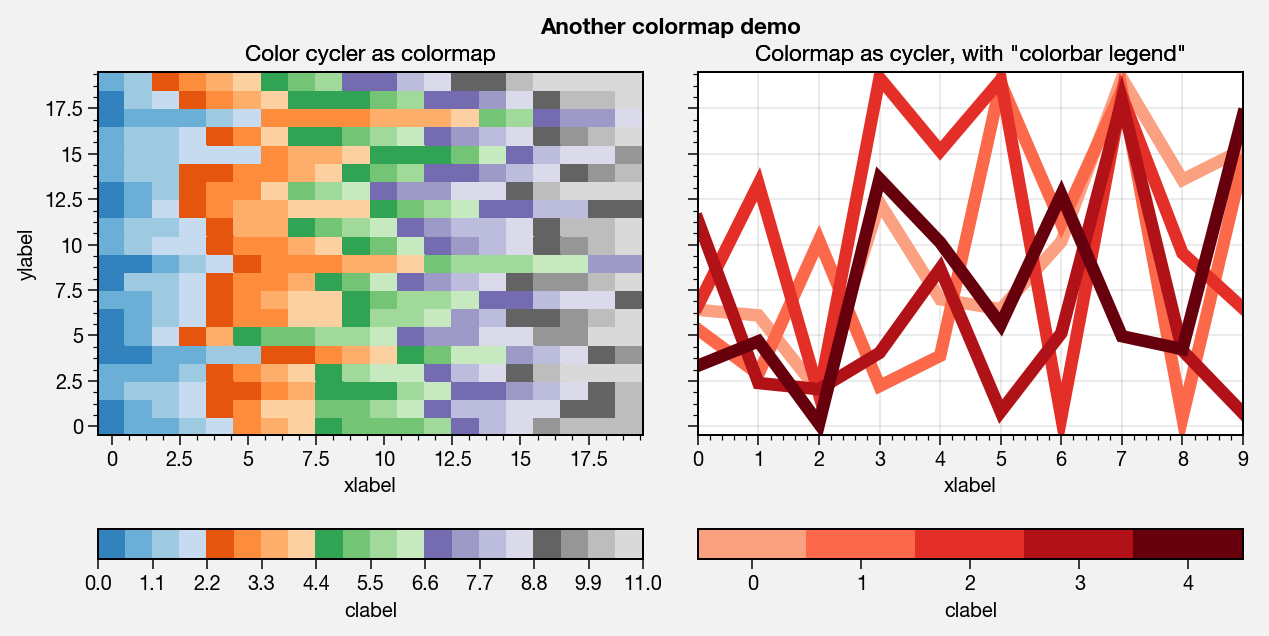
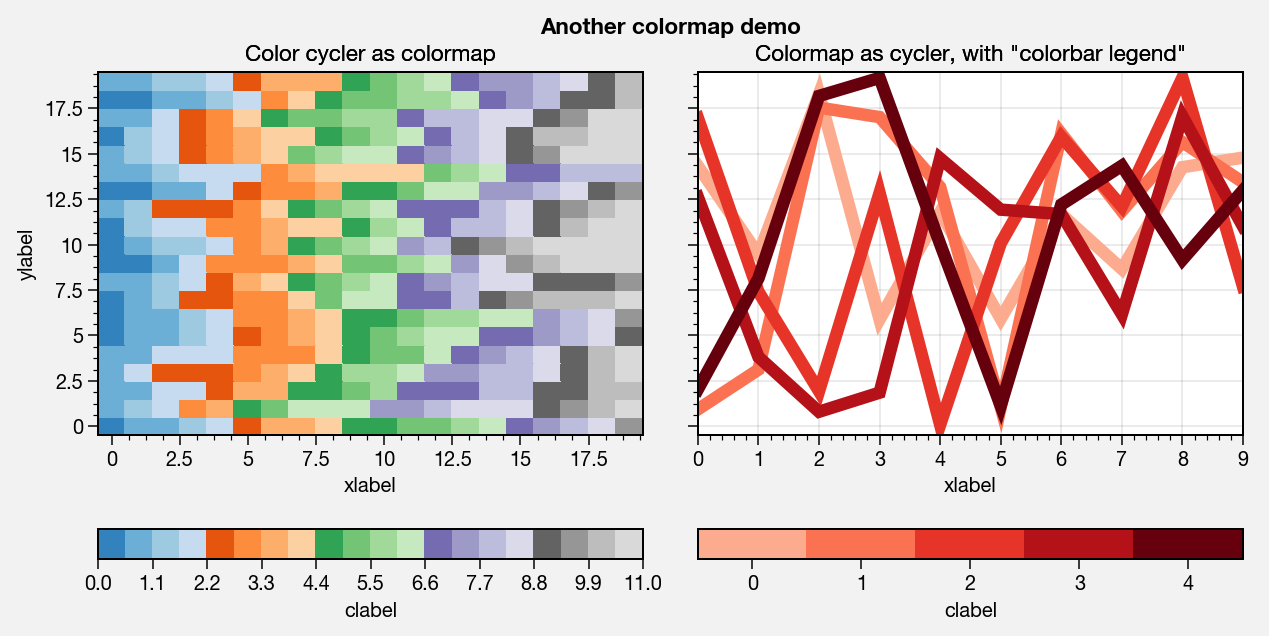
Color cycle fixes

diff --git a/proplot/colortools.py b/proplot/colortools.py
@@ -1364,28 +1364,27 @@ def Colormap(*args, name=None, cyclic=None, N=None,
     if len(imaps)>1:
         cmap = _merge_cmaps(*imaps, name=name, ratios=ratios, N=N_)
 
-    # Transform colormap
-    if not np.iterable(reverse) and reverse:
-        cmap = cmap.reversed()
+    # Cut out either edge
     left = None if np.iterable(left) else left
     right = None if np.iterable(right) else right
-    # Cut out either edge
     if not cut: # non-zero and not None
-        cmap = _clip_cmap(cmap, left, right, N=N)
+        cmap = _clip_cmap(cmap, left, right, name=name, N=N)
     # Cut out middle colors of a diverging map
     else:
         cright, cleft = 0.5 - cut/2, 0.5 + cut/2
         lcmap = _clip_cmap(cmap, left, cright)
         rcmap = _clip_cmap(cmap, cleft, right)
         cmap = _merge_cmaps(lcmap, rcmap, name=name, N=N_)
-    # Cyclically shift
+    # Cyclic colormap settings
     if shift: # i.e. is non-zero
-        cmap = _shift_cmap(cmap, shift)
-    # Add or overwrite property
+        cmap = _shift_cmap(cmap, shift, name=name)
     if cyclic is not None:
         cmap._cyclic = cyclic
     elif not hasattr(cmap, '_cyclic'):
         cmap._cyclic = False
+    # Optionally reverse
+    if not np.iterable(reverse) and reverse:
+        cmap = cmap.reversed()
     # Initialize (the _resample methods generate new colormaps,
     # so current one is uninitializied)
     if not cmap._isinit:
@@ -1427,9 +1426,7 @@ def Colormap(*args, name=None, cyclic=None, N=None,
         print(f'Saved colormap to "{basename}".')
     return cmap
 
-def Cycle(*args, N=None, name=None,
-        shift=None, left=None, right=None,
-        cmap_kw={}, **kwargs):
+def Cycle(*args, N=None, name=None, shift=None, **kwargs):
     """
     Convenience function that builds lists of colors from colormaps or returns
     lists of colors from existing registered cycles.
@@ -1457,14 +1454,10 @@ def Cycle(*args, N=None, name=None,
     shift : int, optional
         Optionally **rotate** the colors by `shift` places. For example,
         ``shift=2`` rotates the cycle to the right by 2 places.
-    left, right : int, optional
-        Optionally **delete** colors by slicing the list. For example,
-        ``left=2`` deletes the leftmost 2 colors; ``right=4`` retains only
-        the first 4 colors.
 
     Other parameters
     ----------------
-    cmap_kw, **kwargs
+    **kwargs
         Passed to `Colormap`.
     """
     # Flexible input options
@@ -1480,7 +1473,7 @@ def Cycle(*args, N=None, name=None,
         args = [args] # presumably send a list of colors
 
     # Get list of colors, and construct and register ListedColormap
-    cmap = Colormap(*args, **cmap_kw, **kwargs) # the cmap object itself
+    cmap = Colormap(*args, **kwargs) # the cmap object itself
     if isinstance(cmap, mcolors.LinearSegmentedColormap): # or subclass
         N = N or 10
         if isinstance(N, Number):
@@ -1494,11 +1487,9 @@ def Cycle(*args, N=None, name=None,
     # Make sure have color tuples, not mutable lists
     cmap.colors = [tuple(color) if not isinstance(color,str) else color for color in cmap.colors]
 
-    # Modify the color cycle with special methods
-    cmap = _clip_cmap(cmap, left, right, N=N)
-    if shift: # i.e. is non-zero
-        cmap = _shift_cmap(cmap, shift)
     # Register the colormap and return a list of colors
+    if shift: # i.e. is non-zero
+        cmap = _shift_cmap(cmap, shift, name=name)
     mcm.cmap_d[name] = cmap
     return CycleList(cmap.colors, name)
 

diff --git a/proplot/axes.py b/proplot/axes.py
@@ -726,7 +726,7 @@ def wrapper_cmap(self, func, *args, fix=True, cmap=None, cmap_kw={},
             result.set_linewidth(linewidth) # seems to do the trick, without dots in corner being visible
     return result
 
-def wrapper_cycle(self, func, *args, cycle=None, cmap_kw={}, cycle_kw={}, **kwargs):
+def wrapper_cycle(self, func, *args, cycle=None, cycle_kw={}, **kwargs):
     """
     Wraps methods that use the color cycler for default line and patch
     colors, like `~matplotlib.axes.Axes.plot`, `~matplotlib.axes.Axes.scatter`,
@@ -737,10 +737,6 @@ def wrapper_cycle(self, func, *args, cycle=None, cmap_kw={}, cycle_kw={}, **kwar
     cycle : None or cycle spec, optional
         The cycle specifer, passed to the `~proplot.colortools.Cycle`
         constructor.
-    cmap_kw : dict-like, optional
-        Passed to `~proplot.colortools.Colormap`, and *bypasses*
-        `~proplot.colortools.Cycle` keyword args of the same name like
-        `left`, `right`, and `shift`.
     cycle_kw : dict-like, optional
         Passed to `~proplot.colortools.Cycle`.
 
@@ -770,7 +766,7 @@ def wrapper_cycle(self, func, *args, cycle=None, cmap_kw={}, cycle_kw={}, **kwar
         # Get the new group of colors
         if not np.iterable(cycle) or isinstance(cycle, str):
             cycle = cycle,
-        cycle = colortools.Cycle(*cycle, cmap_kw=cmap_kw, **cycle_kw)
+        cycle = colortools.Cycle(*cycle, **cycle_kw)
         # Compare to the original group of colors, and only reset the
         # cycle if this group of colors is new
         # NOTE: The _get_lines cycler is an *itertools cycler*. Has no length,

diff --git a/docs/showcase.rst b/docs/showcase.rst
@@ -1875,13 +1875,11 @@ Also note that colormaps and color cycles are totally interchangeable!
 You can use a colormap as a color cycler, and (though this isn’t
 recommended) vice versa.
 
-It is common to want colors from a sequential colormap *excluding* the
-brightest, near-white colors. There are two ways to do this: by passing
-``left=N`` to `~proplot.colors.Cycle`, which skips the first ``N``
-colors in the cycler (i.e. the brightest colors), or by passing
-``cmap_kw={'left':x}`` to `~proplot.colors.Cycle`, which cuts out the
-leftmost ``x`` proportion of the smooth colormap before drawing colors
-from said map. Again, see `~proplot.colors.Cycle` for details.
+Note it is common to want colors from a sequential colormap *excluding*
+the brightest, near-white colors. This can be done by passing ``left=x``
+to `~proplot.colors.Cycle`, which cuts out the leftmost ``x``
+proportion of the smooth colormap before drawing colors from said map.
+See `~proplot.colors.Colormap` for details.
 
 .. code:: ipython3
 
@@ -1890,7 +1888,7 @@ from said map. Again, see `~proplot.colors.Cycle` for details.
     f, axs = plot.subplots(ncols=2, bottomcolorbars=[1,2], span=False, axwidth=3, aspect=1.5)
     m = axs[0].pcolormesh(np.random.rand(20,20).cumsum(axis=1), cmap='set5', levels=np.linspace(0,11,21))
     f.bottompanel[0].colorbar(m, label='clabel', formatter='%.1f')
-    lines = axs[1].plot(20*np.random.rand(10,5), cycle=('reds', 7), cycle_kw={'left':2}, lw=5)
+    lines = axs[1].plot(20*np.random.rand(10,5), cycle=('reds', 5), cycle_kw={'left':0.3}, lw=5)
     axs.format(xlabel='xlabel', ylabel='ylabel', suptitle='Another colormap demo')
     axs[0].format(title='Color cycler as colormap')
     axs[1].format(title='Colormap as cycler, with "colorbar legend"')
